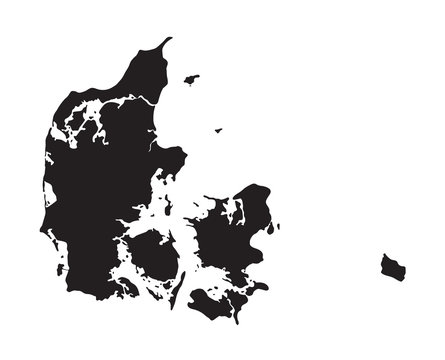
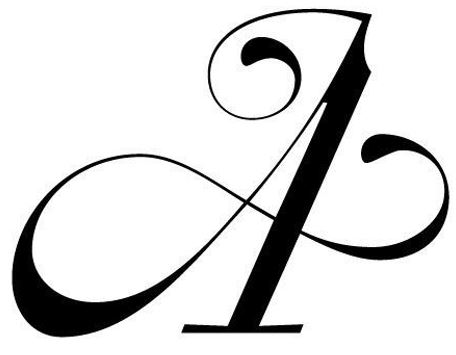
gitter and pind no added

diff --git a/templates/index.html b/templates/index.html
@@ -96,19 +96,19 @@
             <div class="parameters-container">
                 <div class="form-group">
                     <label for="size">Ønsket højde (cm):</label>
-                    <input type="number" id="size" name="size" step="0.1" value="20">
+                    <input type="number" id="size" name="size" step="0.1" value="15">
                     <div class="help-text">Fortæl hvilken højde motivet skal have på dit strikketøj</div>
                 </div>
                 
                 <div class="form-group">
                     <label for="masker">Strikkefasthed, masker:</label>
-                    <input type="number" id="masker" name="masker" step="1" value="19">
+                    <input type="number" id="masker" name="masker" step="1" value="18">
                     <div class="help-text">Angiv antal masker på 10 cm</div>
                 </div>
                 
                 <div class="form-group">
                     <label for="pinde">Strikkefasthed, pinde:</label>
-                    <input type="number" id="pinde" name="pinde" step="1" value="37">
+                    <input type="number" id="pinde" name="pinde" step="1" value="24">
                     <div class="help-text">Angiv antal pinde på 10 cm</div>
                 </div>
             </div>

diff --git a/app.py b/app.py
@@ -1,11 +1,11 @@
 from flask import Flask, request, render_template, jsonify, send_file
 import os
 from werkzeug.utils import secure_filename
-from PIL import Image
 import base64
 from io import BytesIO
 import numpy as np
 from pdf_generator import create_pattern_pdf
+from PIL import Image, ImageDraw, ImageFont
 
 app = Flask(__name__)
 
@@ -32,7 +32,53 @@ def process_to_bw_pixels(image, width, height):
     # Convert to grayscale
     grayscale: Image = resized.convert('L')
     # Convert to pure black and white (threshold at 128)
-    bw_image = grayscale.point(lambda x: 0 if x < 180 else 255, '1')
+    bw_image = grayscale.point(lambda x: 0 if x < 130 else 255, '1')
+
+    # Størrelsen af hver pixel inkl. grå kant
+    pixel_size = 20  # Justér for tykkelse af grå kant
+
+    # resize image så det passer ind i en ramme
+    width_w_boundary = width * pixel_size
+    height_w_boundary = height * pixel_size
+    resized = image.resize((width_w_boundary, height_w_boundary), Image.Resampling.LANCZOS)
+
+    # Opret et nyt billede med ekstra plads til tekst og grå kanter
+    text_space_width = 100  # Bredden på pladsen til teksten
+    canvas = Image.new('RGB', (width_w_boundary + text_space_width, height_w_boundary), (128, 128, 128))  # Grå baggrund
+
+    img_buffer = BytesIO()
+    #bw_image_for_display.save(img_buffer, format='PNG')
+    
+
+
+    # Tegn det originale billede på det nye lærred med grå kanter
+    for y in range(height):
+        for x in range(width):
+            pixel_color = bw_image.getpixel((x, y))  # 0 eller 255
+            color = (0, 0, 0) if pixel_color == 0 else (255, 255, 255)  # Sort eller hvid
+            pixel_x = text_space_width + x * pixel_size  # Start efter tekstområdet
+            pixel_y = y * pixel_size
+            # Fyld midten af det grå område med den originale pixels farve
+            for i in range(1, pixel_size - 1):  # Undgå de yderste pixels (grå kant)
+                for j in range(1, pixel_size - 1):
+                    canvas.putpixel((pixel_x + i, pixel_y + j), color)
+
+    # Tilføj tekst ud for hver række
+    draw = ImageDraw.Draw(canvas)
+    font = ImageFont.truetype("arial.ttf", size=14)  # Brug en passende skrifttype og størrelse
+    for y in range(height):
+        text = f"Pind {y + 1}"
+        text_position = (10, y * pixel_size + pixel_size // 4)  # Placer teksten midt på pixel-rækken
+        draw.text(text_position, text, font=font, fill=(0, 0, 0))  # Hvid tekst
+
+    
+    bw_image_for_display = canvas
+    bw_image_for_display = bw_image_for_display.resize((width*pixel_size+text_space_width, height*pixel_size), Image.Resampling.NEAREST)  # Scale up for better visibility
+    bw_image_for_display.save(img_buffer, format='PNG')
+    img_buffer.seek(0)  # Sørg for, at bufferens pointer er sat korrekt
+    #img_str = base64.b64encode(img_buffer.getvalue()).decode()
+    img_str = base64.b64encode(img_buffer.getvalue()).decode('utf-8')
+
     return bw_image
 
 def generate_row_instructions(row_data, ret_pind, row_number):
@@ -126,10 +172,49 @@ def process():
             instructions = generate_knitting_instructions(bw_image,bottom_to_top,alternating_iteration)
             # Save processed image to base64 for display
             img_buffer = BytesIO()
-            bw_image = bw_image.resize((width*10, height*10), Image.Resampling.NEAREST)  # Scale up for better visibility
-            bw_image.save(img_buffer, format='PNG')
+            #bw_image = bw_image.resize((width*10, height*10), Image.Resampling.NEAREST)  # Scale up for better visibility
+            #bw_image.save(img_buffer, format='PNG')
+            #img_str = base64.b64encode(img_buffer.getvalue()).decode()
+
+            # kode her der laver om på billedet
+            # Størrelsen af hver pixel inkl. grå kant
+            pixel_size = 20  # Justér for tykkelse af grå kant
+
+            # resize image so it fits a boundary
+            width_w_boundary = width*pixel_size
+            height_w_boundary = height*pixel_size
+            resized = image.resize((width_w_boundary, height_w_boundary), Image.Resampling.LANCZOS)
+
+            # Opret et nyt billede med ekstra plads til tekst og grå kanter
+            text_space_width = 60  # Bredden på pladsen til teksten
+            canvas = Image.new('RGB', (width_w_boundary + text_space_width, height_w_boundary), (120, 120, 120))  # Grå baggrund
+
+            # Tegn det originale billede på det nye lærred med grå kanter
+            for y in range(height):
+                for x in range(width):
+                    pixel_color = bw_image.getpixel((x, y))  # 0 eller 255
+                    color = (0, 0, 0) if pixel_color == 0 else (255, 255, 255)  # Sort eller hvid
+                    pixel_x = text_space_width + x * pixel_size
+                    pixel_y = y * pixel_size
+                    # Fyld midten af det grå område med den originale pixels farve
+                    for i in range(1, pixel_size - 1):  # Undgå de yderste pixels (grå kant)
+                        for j in range(1, pixel_size - 1):
+                            canvas.putpixel((pixel_x + i, pixel_y + j), color)
+
+            # Tilføj tekst ud for hver række
+            draw = ImageDraw.Draw(canvas)
+            font = ImageFont.truetype("arial.ttf", size=14)  # Brug en passende skrifttype og størrelse
+            for y in range(height):
+                text = f"Pind {y + 1}"
+                text_position = (10, y * pixel_size + pixel_size // 4)  # Placer teksten midt på pixel-rækken
+                draw.text(text_position, text, font=font, fill=(0, 0, 0))  # Hvid tekst
+
+            bw_image_for_display = canvas
+
+            bw_image_for_display = bw_image_for_display.resize((width*pixel_size+text_space_width, height*pixel_size), Image.Resampling.NEAREST)  # Scale up for better visibility
+            bw_image_for_display.save(img_buffer, format='PNG')
             img_str = base64.b64encode(img_buffer.getvalue()).decode()
-            
+
             return jsonify({
                 'message': 'Pattern generated successfully',
                 'processed_image': img_str,

diff --git a/test2.py b/test2.py
@@ -1,0 +1,59 @@
+from app import generate_knitting_instructions, process_to_bw_pixels
+import numpy as np
+from PIL import Image
+import base64
+
+
+# unit test case 
+import unittest 
+  
+class TestStringMethods(unittest.TestCase): 
+    # Sample pixels array (representing image rows)
+    pixels = np.array([
+        [1, 1, 0, 0, 1],  # Row 1 (white, white, black, black, white)
+        [0, 0, 0, 1, 1],  # Row 2 (black, black, black, white, white)
+        [1, 1, 1, 0, 0],  # Row 3 (white, white, white, black, black)
+        [0, 0, 1, 1, 0]   # Row 4 (black, white, white, white, black)
+    ])
+    # test function to test equality of two value     
+
+    def test_process_to_bw_pixels(self):
+        # Input data: grayscale image
+        grayscale_pixels = np.array([
+            [200, 200, 50, 50, 200], 
+            [50, 50, 50, 200, 200],
+            [200, 200, 200, 50, 50], 
+            [50, 50, 200, 200, 50]
+        ], dtype='uint8')
+        image = Image.fromarray(grayscale_pixels, mode='L')
+
+        # Expected output data without borders
+        expected_bw_pixels = np.array([
+            [255, 255, 0, 0, 255],
+            [0, 0, 0, 255, 255],
+            [255, 255, 255, 0, 0],
+            [0, 0, 255, 255, 0]
+        ], dtype='uint8')  # Binary output (0 or 255 for black or white)
+
+        # Parameters
+        width, height = 5, 4  # Dimensions for resizing
+
+        # Process the image
+        bw_image, img_str = process_to_bw_pixels(image, width, height)
+
+        #bw_image.show()
+        #bw_image_for_display.show()
+        #print(type(bw_image_for_display))
+
+        with open("debug_image.png", "wb") as f:
+            f.write(base64.b64decode(img_str))
+
+
+        decoded_image = base64.b64decode(img_str)
+        with open("debug_image_from_base64.png", "wb") as f:
+            f.write(decoded_image)
+
+  
+if __name__ == '__main__': 
+    unittest.main() 
+

diff --git a/test.py b/test.py
@@ -1,4 +1,4 @@
-from app import generate_knitting_instructions
+from app import generate_knitting_instructions, process_to_bw_pixels
 import numpy as np
 from PIL import Image
 
@@ -78,6 +78,35 @@ class TestStringMethods(unittest.TestCase):
         instructions = generate_knitting_instructions(image, bottom_to_top, alternating_iteration)
         for i,row in enumerate(correct_instructions):
             self.assertEqual(instructions[i],row)        
+
+    def test_process_to_bw_pixels(self):
+        # Input data: grayscale image
+        grayscale_pixels = np.array([
+            [200, 200, 50, 50, 200], 
+            [50, 50, 50, 200, 200],
+            [200, 200, 200, 50, 50], 
+            [50, 50, 200, 200, 50]
+        ], dtype='uint8')
+        image = Image.fromarray(grayscale_pixels, mode='L')
+
+        # Expected output data without borders
+        expected_bw_pixels = np.array([
+            [255, 255, 0, 0, 255],
+            [0, 0, 0, 255, 255],
+            [255, 255, 255, 0, 0],
+            [0, 0, 255, 255, 0]
+        ], dtype='uint8')  # Binary output (0 or 255 for black or white)
+
+        # Parameters
+        width, height = 5, 4  # Dimensions for resizing
+
+        # Process the image
+        bw_image, bw_image_for_display = process_to_bw_pixels(image, width, height)
+
+        bw_image.show()
+        bw_image_for_display.show()
+        print(type(bw_image_for_display))
   
 if __name__ == '__main__': 
     unittest.main() 
+

diff --git a/readme.md b/readme.md
@@ -1,3 +1,6 @@
 Commands to use:
 to push master branch to heroku ´git push heroku master´
+to push master branch to git ´git push´
+
 to start on local machine ´python app.py´
+
